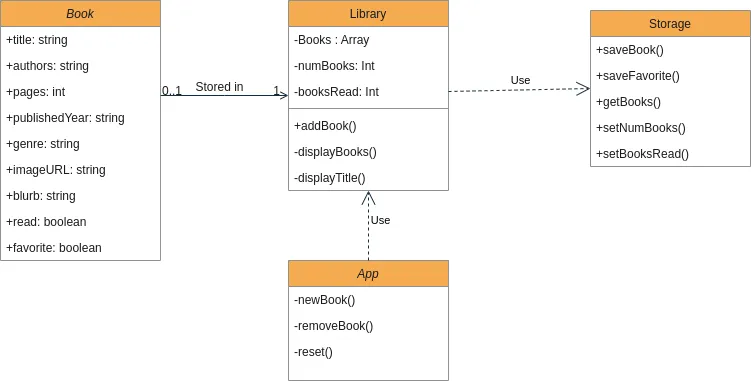
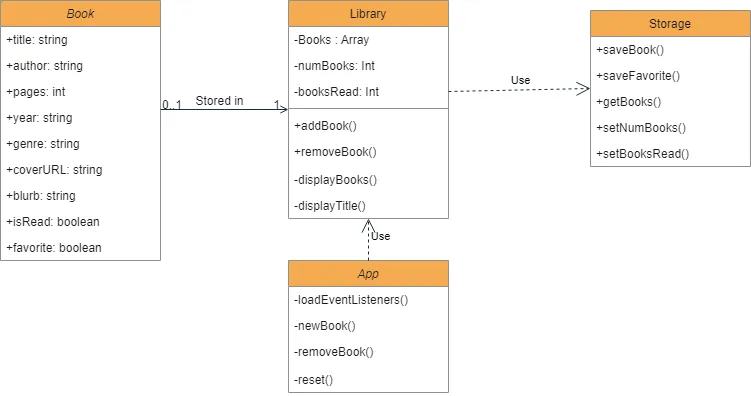
Feature(AddBook and Remove Book): Library Methods for adding and removing books implemented

diff --git a/src/app.js b/src/app.js
@@ -1,6 +1,7 @@
 // Entry point for our source codes
 import './css/style.css';
 import '@fortawesome/fontawesome-free/css/all.css';
+import Library from './Library';
 import Book from './Book';
 
 const addBookBtn = document.querySelector('#add-book');
@@ -15,8 +16,18 @@ closeFormBtn.addEventListener('click', () => {
   formModal.close();
 });
 
-//create an instance of a book
-const harryPotter = new Book('Harry Potter', 'J.K. Rowling', 230, 1997, 'Fantasy', '', 'A blurb', true);
+const lib = new Library();
 
-// display book
-console.log(harryPotter);
+//create an instance of a book
+const book1 = new Book('Harry Potter', 'J.K. Rowling', 230, 1997, 'Fantasy', '', 'A blurb', true);
+const book2 = new Book('Ghost Recon', 'Tom Clancy', 230, 2000, 'Fantasy', '', 'A blurb', true);
+const book3 = new Book('The Great Gatsby', 'J.Kasdasg', 230, 1937, 'Fantasy', '', 'A blurb', true);
+
+//test add
+lib.addBook(book1);
+lib.addBook(book2);
+lib.addBook(book3);
+
+lib.removeBook(book1._id);
+
+console.log(lib._books);

diff --git a/src/Book.js b/src/Book.js
@@ -1,5 +1,7 @@
 class Book {
   constructor(title, author, pages, year, genre, coverURL = '', blurb, isRead = false, favorite = false) {
+    // REMOVE ID WHEN THE BAKCEND IS INTEGRATED
+    this._id = Math.random().toString(16).slice(2);
     this.title = title;
     this.author = author;
     this.pages = pages;

diff --git a/src/Library.js b/src/Library.js
@@ -1,0 +1,17 @@
+class Library {
+  constructor() {
+    this._books = new Map();
+    this._numBooks = this._books.length;
+    this._booksRead = new Map();
+  }
+
+  addBook(book) {
+    this._books.set(book._id, book);
+  }
+
+  removeBook(id) {
+    this._books.delete(id);
+  }
+}
+
+module.exports = Library;
